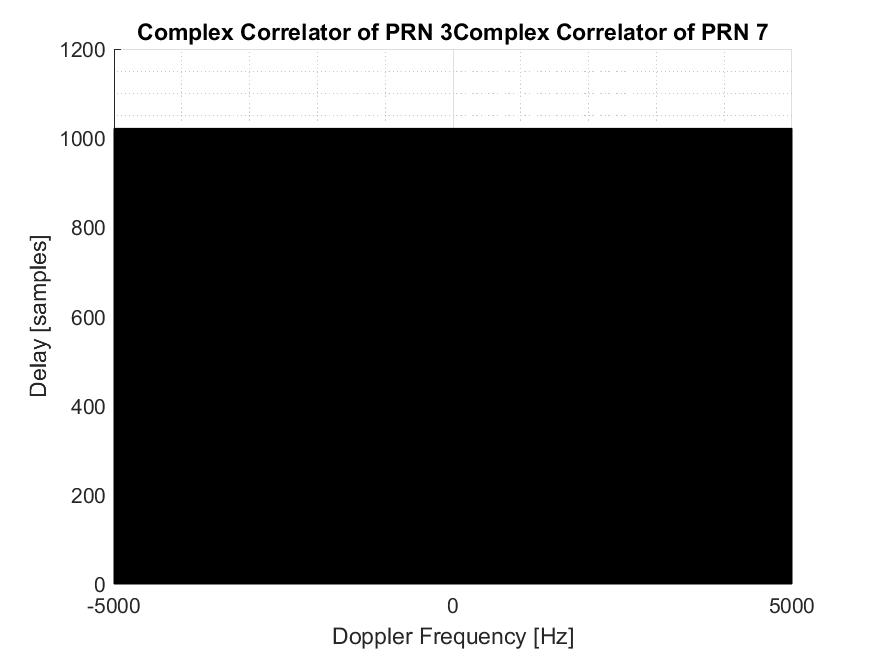
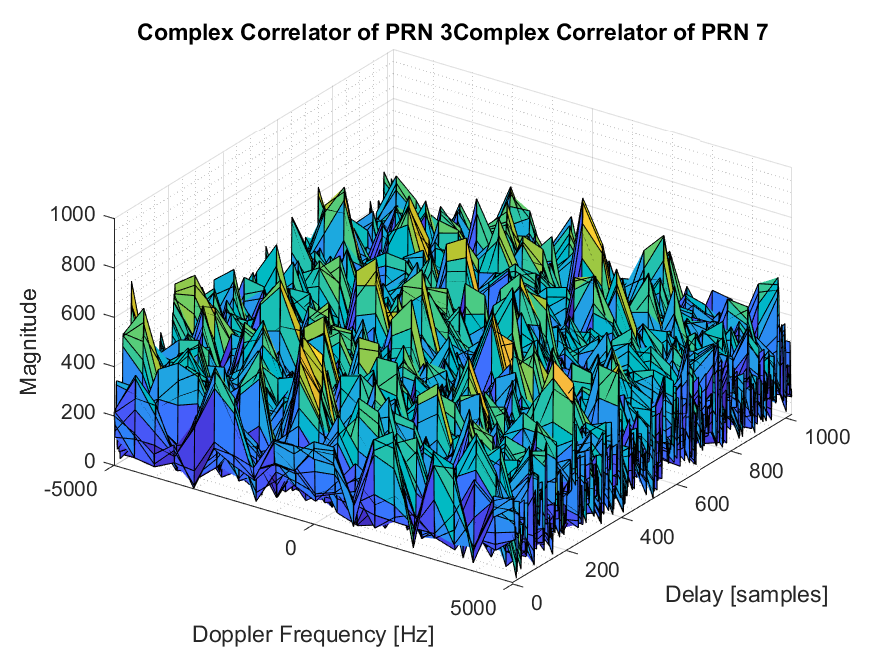
view improvements

diff --git a/ASEN5090_HW9_script.m b/ASEN5090_HW9_script.m
@@ -187,8 +187,11 @@ if show_plot == true
     title(sprintf('Complex Correlator of PRN %0.0f',PRN));
     ylabel('Delay [samples]');
     xlabel('Doppler Frequency [Hz]');
+    xlim([doppler_vec(1),doppler_vec(end)]);
+    ylim([delay_vec(1),delay_vec(end)]);
     zlabel('Magnitude');
     surf(doppler_vec,delay_vec,S);
+    view(35,40)
     saveas(fig,sprintf('ASEN5090_HW9_PRN%0.0f_CC.png',PRN),'png');
     
     % Plot Peak Doppler Bin
@@ -196,6 +199,7 @@ if show_plot == true
     title(sprintf('Peak Doppler Bin of PRN %0.0f',PRN));
     xlabel('Delay [samples]');
     ylabel('Complex Correlator Magnitude');
+    xlim([delay_vec(1),delay_vec(end)]);
     plot(delay_vec,peak_doppler);
     saveas(fig,sprintf('ASEN5090_HW9_PRN%0.0f_PeakDoppler.png',PRN),'png');
     
